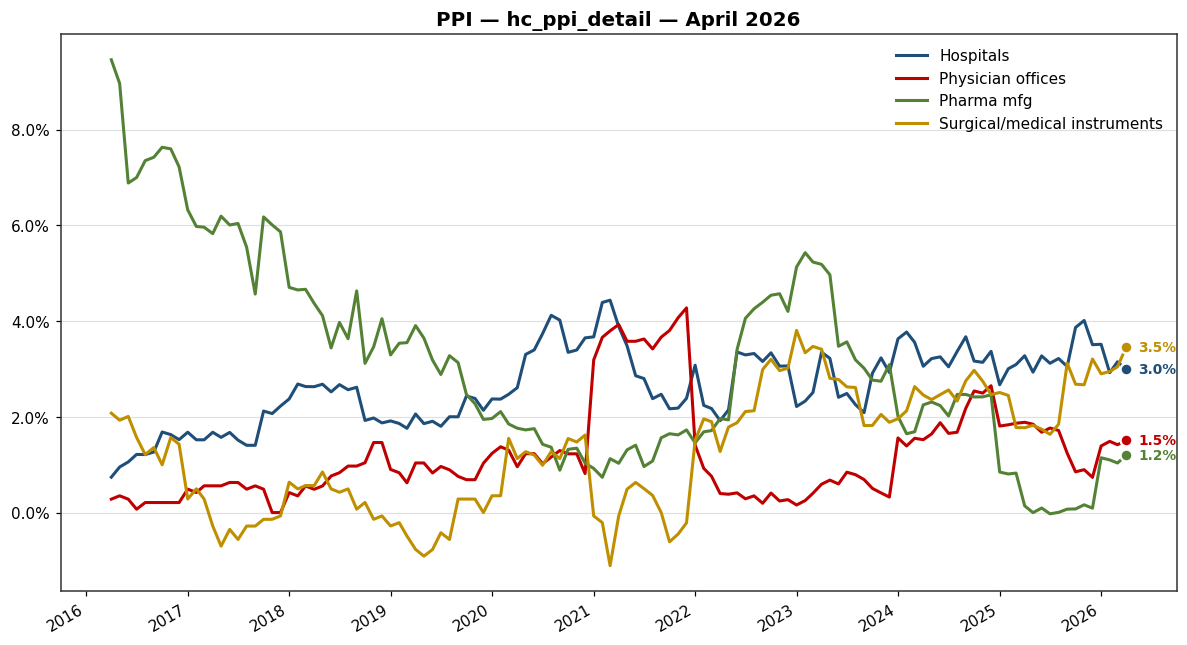
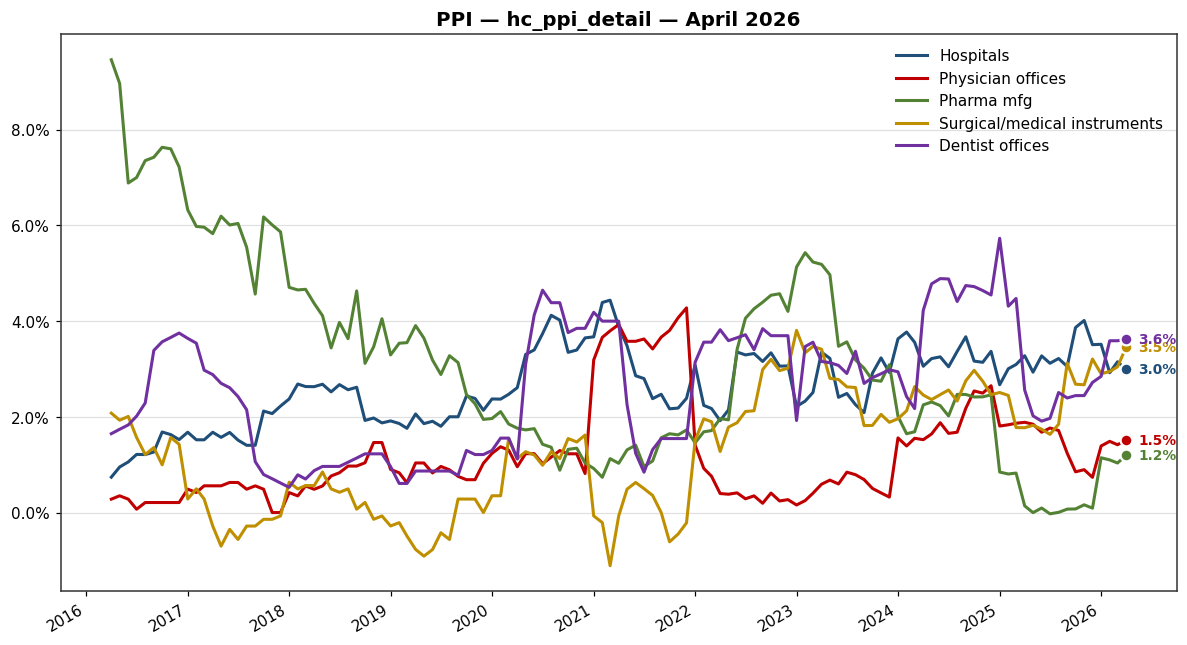
ppi: add Dentist offices PPI to HC cuts (dental price line)
Adds PPI 'Offices of dentists' (PCU621210621210, +3.62% YoY) as a fifth
healthcare PPI component + the hc_ppi_detail chart + dashboard HC context,
mirroring the existing hospital/physician/pharma/instruments cuts.

(CPI dental services = item SEMC02 is NOT on FRED — only the SEMC
professional-services aggregate is — so the consumer-price dental line
needs the BLS API; left as a follow-up.)

diff --git a/outputs/dashboard/index.html b/outputs/dashboard/index.html
@@ -44,7 +44,7 @@
 <body>
 
 <h1>macro-monitor — current state</h1>
-<p class="subtitle">Latest values per Tier A family. Generated Thu Jun 04 2026 21:51 ET.<br>
+<p class="subtitle">Latest values per Tier A family. Generated Thu Jun 04 2026 22:40 ET.<br>
 Each figure is tagged with its basis — <b>y/y</b> (year-over-year) · <b>m/m</b> (month-over-month) ·
 <b>m/m ann.</b> (annualized monthly) · <b>q/q ann.</b> (annualized quarterly) ·
 <b>m/m chg</b> (level change, e.g. payrolls in thousands) · <b>level</b> (the raw level).</p>
@@ -72,7 +72,7 @@ Each figure is tagged with its basis — <b>y/y</b> (year-over-year) · <b>m/m</
 <div class='card'><h2>Initial Jobless Claims</h2><div class='period'>Week ending May 30, 2026</div><div class='headline'><span class='headline-label'>Initial claims</span><span class='headline-value'>225,000<span class='basis'>level</span></span></div><img class='chart-thumb' src='../charts/claims_2y_2026-05-30.png' alt='main chart'><div class='links'><a href='../archive/initial_jobless_claims/2026-05-30.html'>Release report</a></div></div>
 <div class='card'><h2>JOLTS</h2><div class='period'>April 2026</div><div class='headline'><span class='headline-label'>Job openings</span><span class='headline-value'>7,618<span class='basis'>level</span></span></div><div class='headline'><span class='headline-label'>Quits rate</span><span class='headline-value'>1.90<span class='basis'>level</span></span></div><img class='chart-thumb' src='../charts/jolts_5y_2026-04.png' alt='main chart'><div class='links'><a href='../archive/jolts/2026-04.html'>Release report</a> <a href='https://www.bls.gov/news.release/pdf/jolts.pdf' target='_blank'>Official PDF ↗</a></div></div>
 <div class='card'><h2>PCE / Personal Income &amp; Outlays</h2><div class='period'>April 2026</div><div class='headline'><span class='headline-label'>Headline PCE</span><span class='headline-value'>+4.90%<span class='basis'>m/m ann.</span><span class='also'>+3.77% y/y · +0.40% m/m</span></span></div><div class='headline'><span class='headline-label'>Core PCE</span><span class='headline-value'>+2.91%<span class='basis'>m/m ann.</span><span class='also'>+3.29% y/y · +0.24% m/m</span></span></div><img class='chart-thumb' src='../charts/pce_5y_2026-04.png' alt='main chart'><div class='links'><a href='../archive/pce___personal_income_and_outlays/2026-04.html'>Release report</a></div></div>
-<div class='card'><h2>PPI</h2><div class='period'>April 2026</div><div class='headline'><span class='headline-label'>Headline (Final Demand)</span><span class='headline-value'>+17.82%<span class='basis'>m/m ann.</span><span class='also'>+5.99% y/y · +1.38% m/m</span></span></div><div class='headline'><span class='headline-label'>Core (Final Demand less Food &amp; Energy)</span><span class='headline-value'>+13.12%<span class='basis'>m/m ann.</span><span class='also'>+5.24% y/y · +1.03% m/m</span></span></div><div class='headline'><span class='headline-label'>↳ Hospitals PPI</span><span class='headline-value'>+2.99%<span class='basis'>y/y</span></span></div><div class='headline'><span class='headline-label'>↳ Physician offices PPI</span><span class='headline-value'>+1.51%<span class='basis'>y/y</span></span></div><div class='headline'><span class='headline-label'>↳ Pharma preparation mfg PPI</span><span class='headline-value'>+1.19%<span class='basis'>y/y</span></span></div><div class='headline'><span class='headline-label'>↳ Surgical &amp; medical instruments PPI</span><span class='headline-value'>+3.45%<span class='basis'>y/y</span></span></div><img class='chart-thumb' src='../charts/ppi_5y_2026-04.png' alt='main chart'><div class='links'><a href='../archive/ppi/2026-04.html'>Release report</a> <a href='https://www.bls.gov/news.release/pdf/ppi.pdf' target='_blank'>Official PDF ↗</a></div></div>
+<div class='card'><h2>PPI</h2><div class='period'>April 2026</div><div class='headline'><span class='headline-label'>Headline (Final Demand)</span><span class='headline-value'>+17.82%<span class='basis'>m/m ann.</span><span class='also'>+5.99% y/y · +1.38% m/m</span></span></div><div class='headline'><span class='headline-label'>Core (Final Demand less Food &amp; Energy)</span><span class='headline-value'>+13.12%<span class='basis'>m/m ann.</span><span class='also'>+5.24% y/y · +1.03% m/m</span></span></div><div class='headline'><span class='headline-label'>↳ Hospitals PPI</span><span class='headline-value'>+2.99%<span class='basis'>y/y</span></span></div><div class='headline'><span class='headline-label'>↳ Physician offices PPI</span><span class='headline-value'>+1.51%<span class='basis'>y/y</span></span></div><div class='headline'><span class='headline-label'>↳ Pharma preparation mfg PPI</span><span class='headline-value'>+1.19%<span class='basis'>y/y</span></span></div><div class='headline'><span class='headline-label'>↳ Surgical &amp; medical instruments PPI</span><span class='headline-value'>+3.45%<span class='basis'>y/y</span></span></div><div class='headline'><span class='headline-label'>↳ Dentist offices PPI</span><span class='headline-value'>+3.62%<span class='basis'>y/y</span></span></div><img class='chart-thumb' src='../charts/ppi_5y_2026-04.png' alt='main chart'><div class='links'><a href='../archive/ppi/2026-04.html'>Release report</a> <a href='https://www.bls.gov/news.release/pdf/ppi.pdf' target='_blank'>Official PDF ↗</a></div></div>
 <div class='card'><h2>Retail Sales</h2><div class='period'>April 2026</div><div class='headline'><span class='headline-label'>Headline (Retail trade + food services)</span><span class='headline-value'>+0.49%<span class='basis'>m/m</span><span class='also'>+4.87% y/y</span></span></div><img class='chart-thumb' src='../charts/retail_5y_2026-04.png' alt='main chart'><div class='links'><a href='../archive/retail_sales/2026-04.html'>Release report</a></div></div>
 <div class='card'><h2>ADP National Employment Report</h2><div class='period'>May 2026</div><div class='headline'><span class='headline-label'>Private payrolls change (ADP)</span><span class='headline-value'>+122,000<span class='basis'>m/m chg</span><span class='also'>+0.54% y/y</span></span></div><div class='headline'><span class='headline-label'>↳ Education &amp; Health Services (ADP)</span><span class='headline-value'>+57,000<span class='basis'>m/m chg</span></span></div><img class='chart-thumb' src='../charts/adp_5y_2026-05.png' alt='main chart'><div class='links'><a href='../archive/adp_national_employment_report/2026-05.html'>Release report</a></div></div>
 <div class='card'><h2>Consumer Credit</h2><div class='period'>March 2026</div><div class='headline'><span class='headline-label'>Total consumer credit</span><span class='headline-value'>+2.35%<span class='basis'>y/y</span><span class='also'>+0.49% m/m</span></span></div><img class='chart-thumb' src='../charts/credit_10y_2026-03.png' alt='main chart'><div class='links'><a href='../archive/consumer_credit/2026-03.html'>Release report</a></div></div>

diff --git a/outputs/archive/ppi/2026-04.html b/outputs/archive/ppi/2026-04.html
@@ -32,7 +32,7 @@
 
 <div class="freshness">
   <strong>Source:</strong> fred ·
-  <strong>Fetched:</strong> 2026-06-04T13:58:37.098910+00:00 ·
+  <strong>Fetched:</strong> 2026-06-05T02:40:42.624920+00:00 ·
   <strong>Latest observation:</strong> 2026-04 ·
   <strong>Expected:</strong> 2026-04 ·
   <strong>Stale:</strong> no
@@ -48,7 +48,8 @@
 <h2>Components (thread)</h2><table><thead><tr><th>Series</th><th>Transform</th><th>Value</th></tr></thead><tbody><tr><td>Hospitals PPI <small style='color:#888'>(PCU622622)</small> <span class='tag'>healthcare</span></td><td>yoy_pct</td><td class='num'>2.99%</td></tr>
 <tr><td>Physician offices PPI <small style='color:#888'>(PCU621111621111)</small> <span class='tag'>healthcare</span></td><td>yoy_pct</td><td class='num'>1.51%</td></tr>
 <tr><td>Pharma preparation mfg PPI <small style='color:#888'>(PCU325412325412)</small> <span class='tag'>healthcare</span></td><td>yoy_pct</td><td class='num'>1.19%</td></tr>
-<tr><td>Surgical &amp; medical instruments PPI <small style='color:#888'>(PCU339112339112)</small> <span class='tag'>healthcare</span></td><td>yoy_pct</td><td class='num'>3.45%</td></tr></tbody></table>
+<tr><td>Surgical &amp; medical instruments PPI <small style='color:#888'>(PCU339112339112)</small> <span class='tag'>healthcare</span></td><td>yoy_pct</td><td class='num'>3.45%</td></tr>
+<tr><td>Dentist offices PPI <small style='color:#888'>(PCU621210621210)</small> <span class='tag'>healthcare</span></td><td>yoy_pct</td><td class='num'>3.62%</td></tr></tbody></table>
 
 <h2>Charts</h2>
 <div class='chart'><h3 style='font-size:1em;color:#555'>main</h3><img src='../../charts/ppi_5y_2026-04.png' alt='main'></div>

diff --git a/outputs/latest/ppi.html b/outputs/latest/ppi.html
@@ -32,7 +32,7 @@
 
 <div class="freshness">
   <strong>Source:</strong> fred ·
-  <strong>Fetched:</strong> 2026-06-04T13:58:37.098910+00:00 ·
+  <strong>Fetched:</strong> 2026-06-05T02:40:42.624920+00:00 ·
   <strong>Latest observation:</strong> 2026-04 ·
   <strong>Expected:</strong> 2026-04 ·
   <strong>Stale:</strong> no
@@ -48,7 +48,8 @@
 <h2>Components (thread)</h2><table><thead><tr><th>Series</th><th>Transform</th><th>Value</th></tr></thead><tbody><tr><td>Hospitals PPI <small style='color:#888'>(PCU622622)</small> <span class='tag'>healthcare</span></td><td>yoy_pct</td><td class='num'>2.99%</td></tr>
 <tr><td>Physician offices PPI <small style='color:#888'>(PCU621111621111)</small> <span class='tag'>healthcare</span></td><td>yoy_pct</td><td class='num'>1.51%</td></tr>
 <tr><td>Pharma preparation mfg PPI <small style='color:#888'>(PCU325412325412)</small> <span class='tag'>healthcare</span></td><td>yoy_pct</td><td class='num'>1.19%</td></tr>
-<tr><td>Surgical &amp; medical instruments PPI <small style='color:#888'>(PCU339112339112)</small> <span class='tag'>healthcare</span></td><td>yoy_pct</td><td class='num'>3.45%</td></tr></tbody></table>
+<tr><td>Surgical &amp; medical instruments PPI <small style='color:#888'>(PCU339112339112)</small> <span class='tag'>healthcare</span></td><td>yoy_pct</td><td class='num'>3.45%</td></tr>
+<tr><td>Dentist offices PPI <small style='color:#888'>(PCU621210621210)</small> <span class='tag'>healthcare</span></td><td>yoy_pct</td><td class='num'>3.62%</td></tr></tbody></table>
 
 <h2>Charts</h2>
 <div class='chart'><h3 style='font-size:1em;color:#555'>main</h3><img src='../../charts/ppi_5y_2026-04.png' alt='main'></div>
